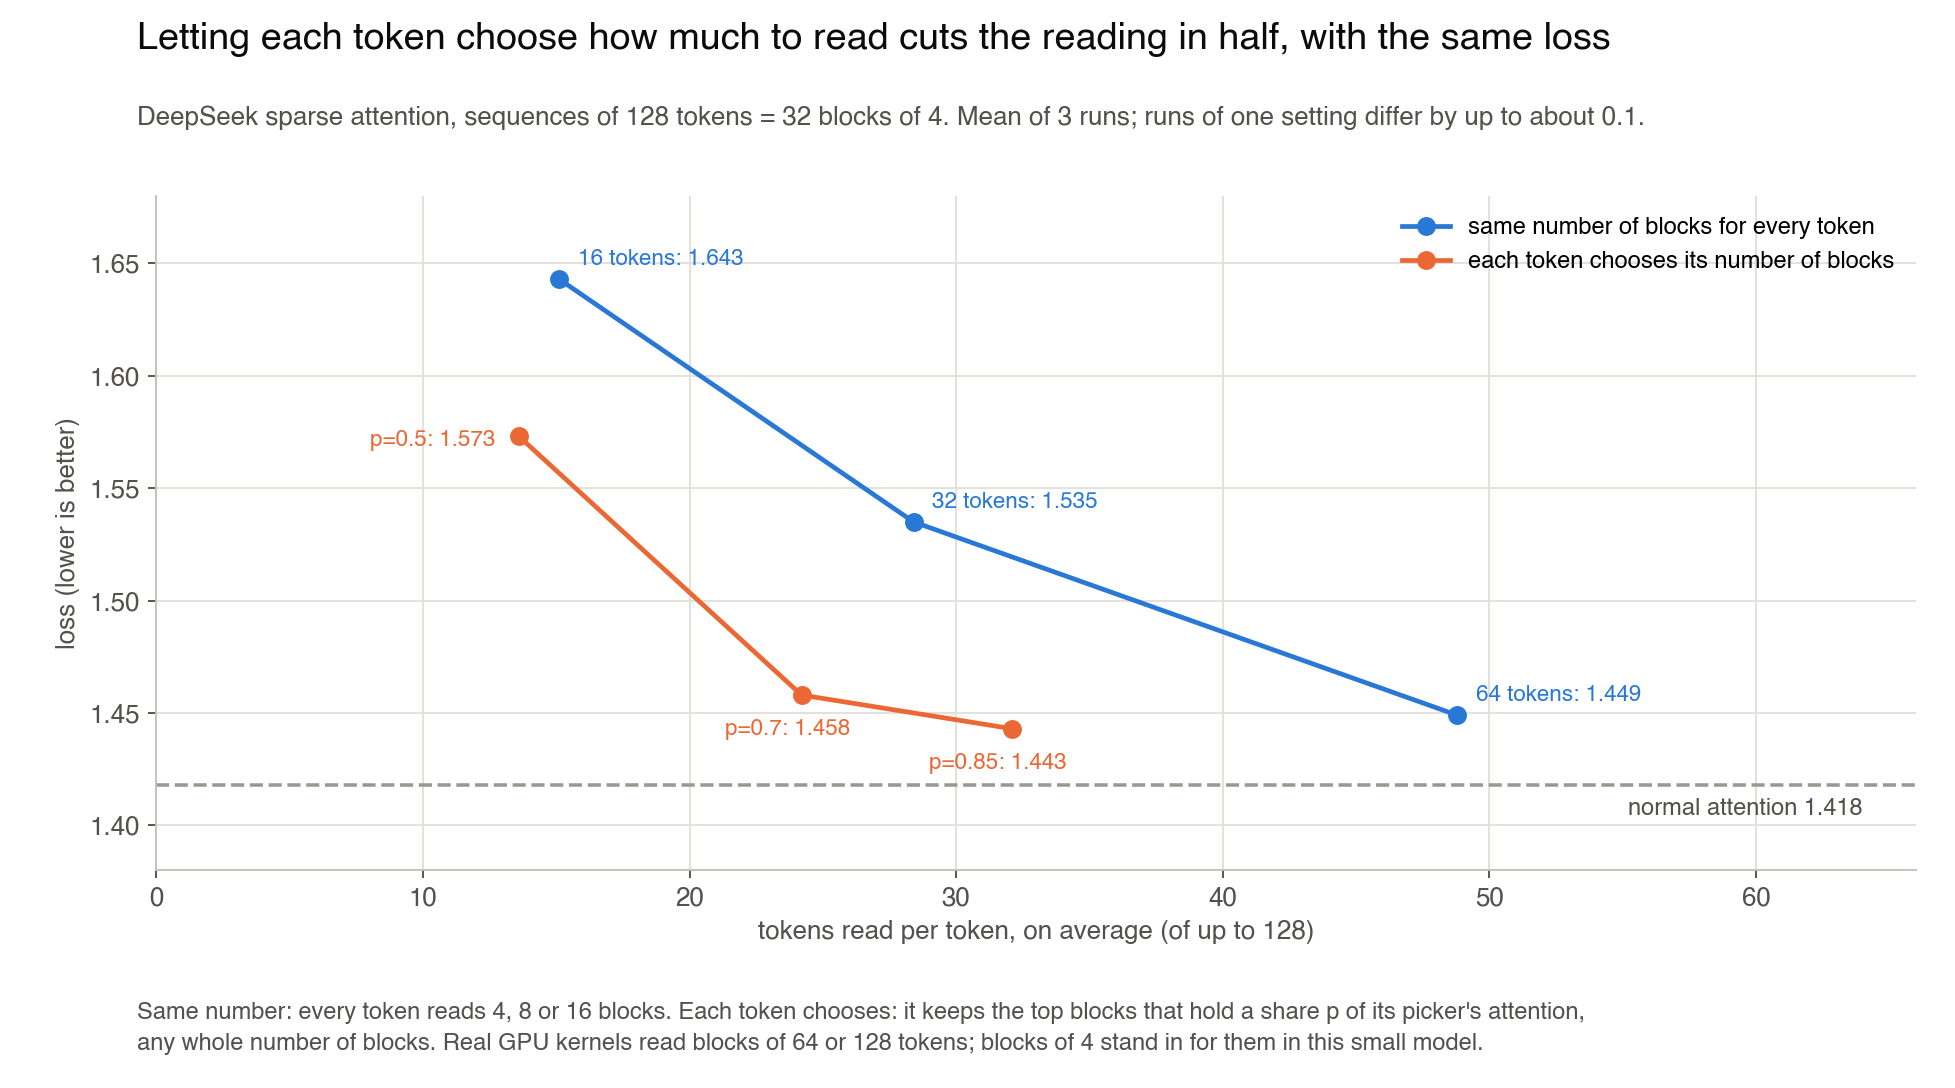
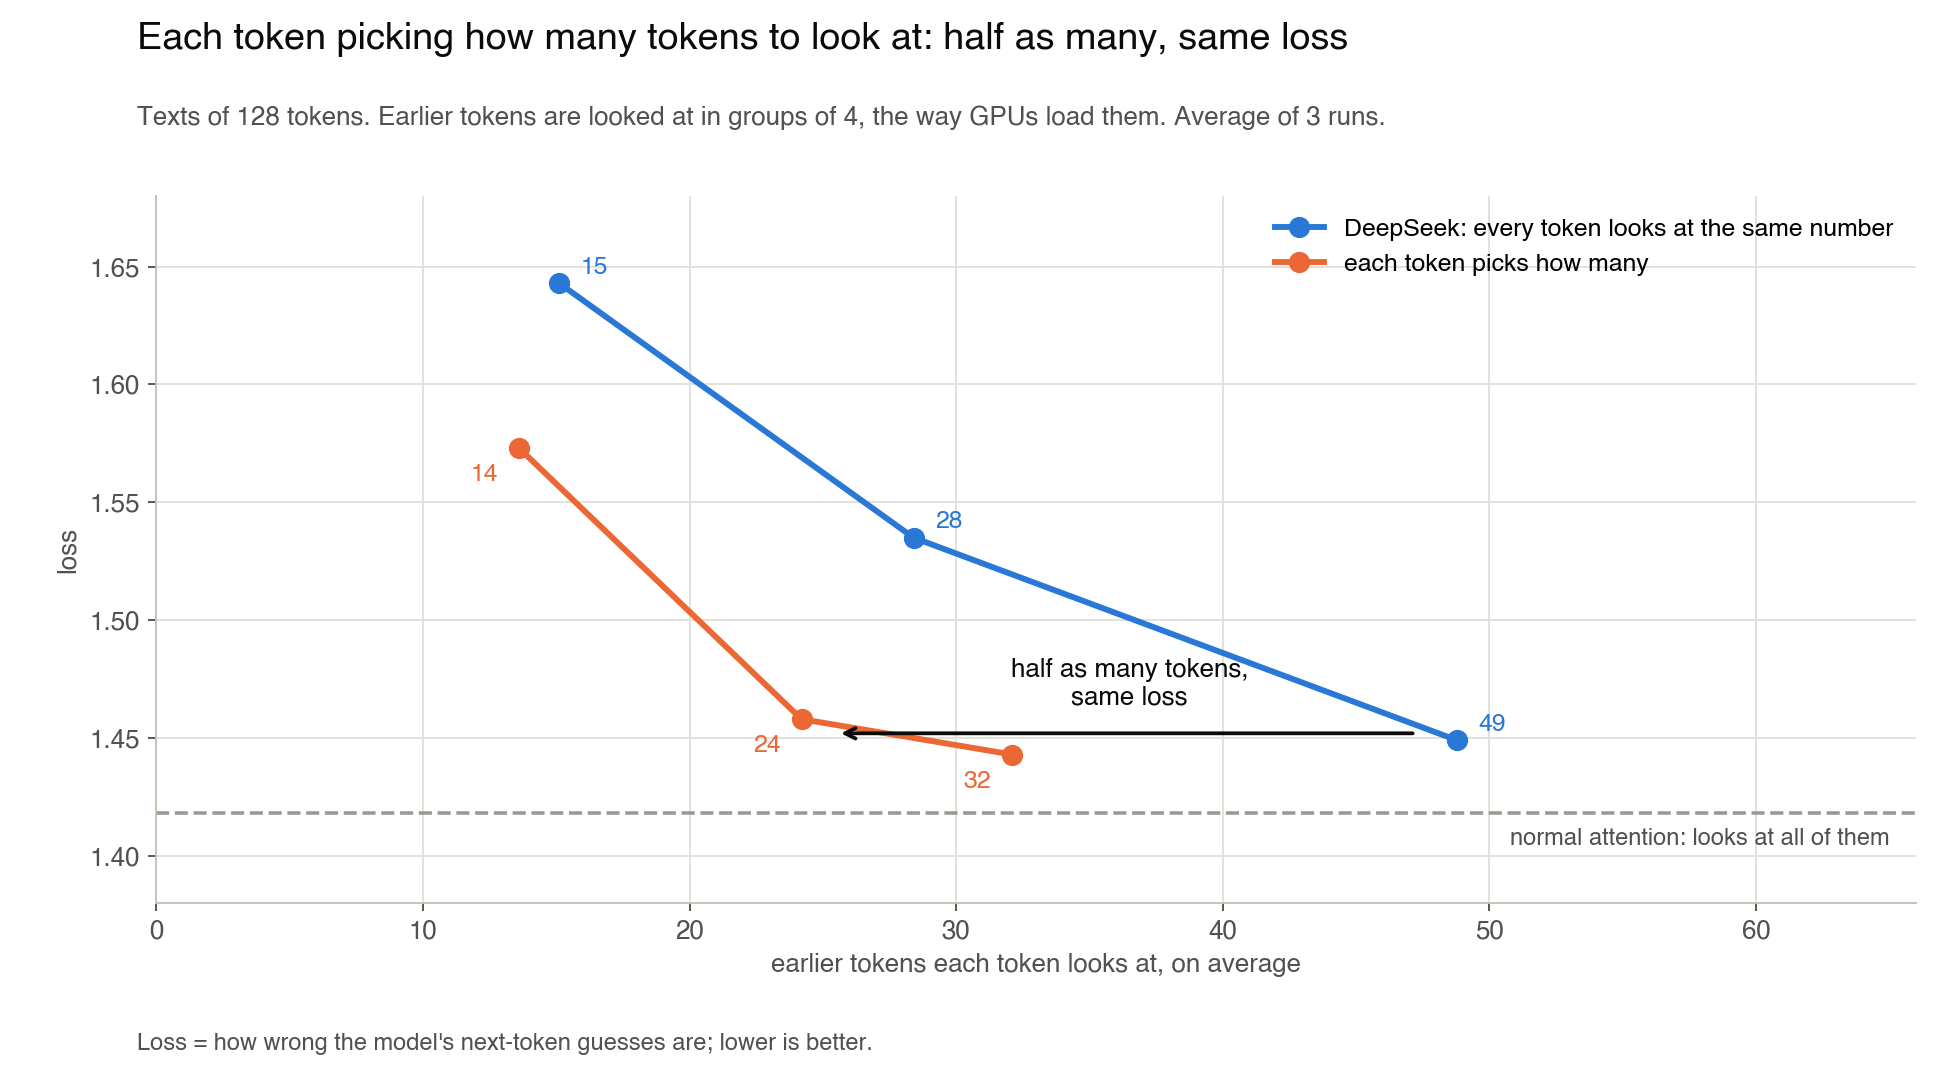
Loss chart: plain labels, token counts instead of p, groups of 4 explained

diff --git a/chart.py b/chart.py
@@ -123,23 +123,21 @@ LONG_FULL = 1.418
 LONG_FIXED = [(15.1, 1.643), (28.4, 1.535), (48.8, 1.449)]       # fixed 16, 32, 64 tokens in blocks of 4
 LONG_CHOSEN = [(13.6, 1.573), (24.2, 1.458), (32.1, 1.443)]      # p = 0.5, 0.7, 0.85; any whole number of blocks
 fig, ax = plt.subplots(figsize=(11.5, 6.4))
-fig.subplots_adjust(left=0.08, right=0.98, top=0.82, bottom=0.2)
-frame(fig, "Letting each token choose how much to read cuts the reading in half, with the same loss",
-      "DeepSeek sparse attention, sequences of 128 tokens = 32 blocks of 4. Mean of 3 runs; runs of one setting differ by up to about 0.1.",
-      "Same number: every token reads 4, 8 or 16 blocks. Each token chooses: it keeps the top blocks that hold a share p of its picker's attention,\n"
-      "any whole number of blocks. Real GPU kernels read blocks of 64 or 128 tokens; blocks of 4 stand in for them in this small model.")
-ax.plot([a for a, _ in LONG_FIXED], [b for _, b in LONG_FIXED], color=BLUE, marker="o", ms=7, lw=2, label="same number of blocks for every token")
-ax.plot([a for a, _ in LONG_CHOSEN], [b for _, b in LONG_CHOSEN], color=ORANGE, marker="o", ms=7, lw=2, label="each token chooses its number of blocks")
-for (a, b), lab in zip(LONG_FIXED, ("16 tokens", "32 tokens", "64 tokens")):
-    ax.annotate(f"{lab}: {b:.3f}", (a, b), textcoords="offset points", xytext=(8, 6), fontsize=9.5, color=BLUE)
-for (a, b), lab in zip(LONG_CHOSEN, ("p=0.5", "p=0.7", "p=0.85")):
-    ax.annotate(f"{lab}: {b:.3f}", (a, b), textcoords="offset points", xytext=(-10, -4) if lab == "p=0.5" else (-6, -17), fontsize=9.5, color=ORANGE,
-                ha="right" if lab == "p=0.5" else "center")
+fig.subplots_adjust(left=0.08, right=0.98, top=0.82, bottom=0.17)
+frame(fig, "Each token picking how many tokens to look at: half as many, same loss",
+      "Texts of 128 tokens. Earlier tokens are looked at in groups of 4, the way GPUs load them. Average of 3 runs.",
+      "Loss = how wrong the model's next-token guesses are; lower is better.")
+ax.plot([a for a, _ in LONG_FIXED], [b for _, b in LONG_FIXED], color=BLUE, marker="o", ms=8, lw=2.5, label="DeepSeek: every token looks at the same number")
+ax.plot([a for a, _ in LONG_CHOSEN], [b for _, b in LONG_CHOSEN], color=ORANGE, marker="o", ms=8, lw=2.5, label="each token picks how many")
+for a, b in LONG_FIXED: ax.annotate(f"{a:.0f}", (a, b), textcoords="offset points", xytext=(9, 4), fontsize=10.5, color=BLUE)
+for a, b in LONG_CHOSEN: ax.annotate(f"{a:.0f}", (a, b), textcoords="offset points", xytext=(-9, -14), ha="right", fontsize=10.5, color=ORANGE)
+ax.annotate("", xy=(25.5, 1.452), xytext=(47.3, 1.452), arrowprops=dict(arrowstyle="->", color=INK, lw=1.6))
+ax.text(36.5, 1.462, "half as many tokens,\nsame loss", ha="center", va="bottom", fontsize=11, color=INK)
 ax.axhline(LONG_FULL, color=GRAY, lw=1.5, ls="--")
-ax.text(64, LONG_FULL - 0.006, f"normal attention {LONG_FULL}", ha="right", va="top", fontsize=10, color=INK2)
+ax.text(65, LONG_FULL - 0.006, "normal attention: looks at all of them", ha="right", va="top", fontsize=10, color=INK2)
 ax.set_xlim(0, 66); ax.set_ylim(1.38, 1.68)
-ax.set_xlabel("tokens read per token, on average (of up to 128)"); ax.set_ylabel("loss (lower is better)")
-ax.legend(loc="upper right", fontsize=10)
+ax.set_xlabel("earlier tokens each token looks at, on average"); ax.set_ylabel("loss")
+ax.legend(loc="upper right", fontsize=10.5)
 fig.savefig("blocks_long.png", dpi=170); plt.close(fig)
 # 6. the best minimum grows with the context length
 import math
